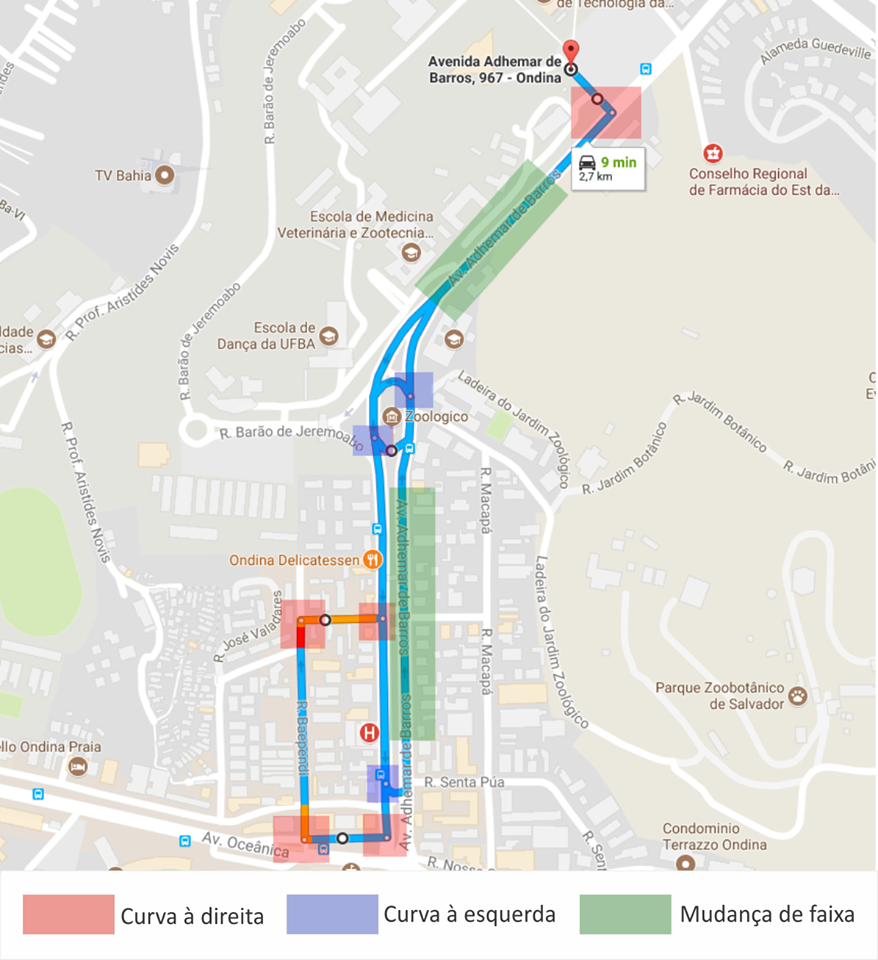
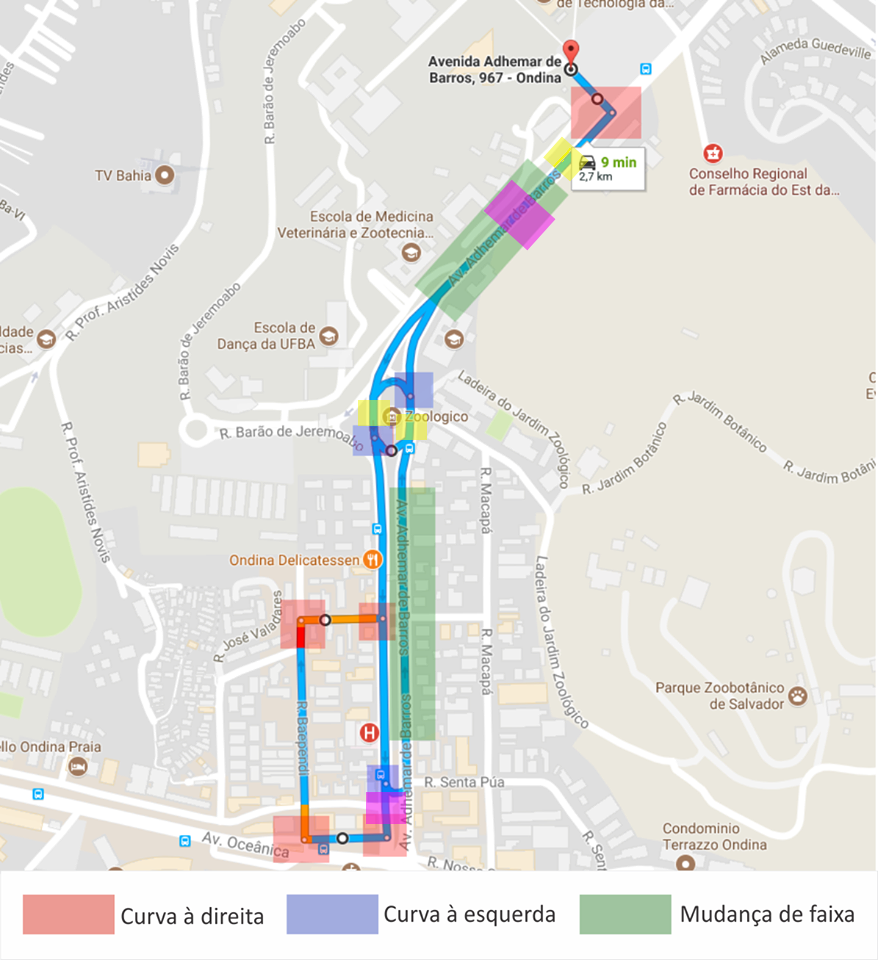
Adiciona textos e muda imagem

diff --git a/texts/proposta.tex b/texts/proposta.tex
@@ -1,18 +1,33 @@
 \xchapter{Proposta}{}
 \label{proposta}
 
-Neste trabalho é proposto um módulo de identificação de momentos oportunos e inoportunos para interrupção de
-motoristas, usando apenas sensores de smartphone. As seções deste capítulo estão estruturadas da seguinte forma:
-A seção \ref{sec-momentos-oportunos-inoportunos} discorre sobre os momentos oportunos e inoportunos escolhidos.
-A seção \ref{sec-arquitetura-solucao} apresenta a arquitetura da solução proposta. A seção \ref{sec-implementacao}
-apresenta detalhes da implementação de cada módulo que compõe a solução.
+Neste trabalho é proposto um sistema de notificação sensível ao contexto com identificação de momentos oportunos e
+inoportunos para interrupção de motoristas, usando apenas sensores de smartphone. As seções deste capítulo estão
+estruturadas da seguinte forma: A seção \ref{sec-momentos-oportunos-inoportunos} discorre sobre os momentos oportunos
+e inoportunos escolhidos. A seção \ref{sec-arquitetura-solucao} apresenta a arquitetura da solução proposta. A
+seção \ref{sec-implementacao} apresenta detalhes da implementação de cada módulo que compõe a solução.
 
 \section{Momentos oportunos e inoportunos escolhidos}
 \label{sec-momentos-oportunos-inoportunos}
 
-Para a escolha dos momentos oportunos e inoportunos foi feita uma prospecção dos artigos existentes nessa área.
-Nesta etapa dois artigos se mostraram promissores: O de \citeonline{kim2015sensors} e o de \citeonline{monk2004recovering}.
-Ambos trabalhos citam momentos oportunos e inoportunos para detecção da interruptibilidade de motoristas.
+Para a escolha dos momentos oportunos e inoportunos que a proposta iria identificar, foi feita uma prospecção dos artigos
+existentes nessa área. Nesta etapa dois artigos se mostraram promissores: O de \citeonline{kim2015sensors} e o
+de \citeonline{monk2004recovering}. Ambos trabalhos citam momentos oportunos e inoportunos para detecção da interruptibilidade
+de motoristas. Os momentos escolhidos estão exibidos na tabela \ref{tabela-momentos-oportunos-inoportunos}.
+
+\begin{table}[h]
+\centering
+\caption{Momentos oportunos e inoportunos escolhidos para identificação na proposta}
+\label{tabela-momentos-oportunos-inoportunos}
+\begin{tabular}{|c|c|}
+\hline
+\textbf{Momentos oportunos}                                                & \textbf{Momentos Inoportunos} \\ \hline
+Veículo parado                                                             & Curva                         \\ \hline
+\begin{tabular}[c]{@{}c@{}}Veículo com velocidade\\ constante\end{tabular} & Mudança de faixa              \\ \hline
+\end{tabular}
+\end{table}
+
+As próximas subseções explicam com detalhes o porquê das escolhas destes momentos.
 
 \subsection{Momentos oportunos}
 \label{subsec-momentos-oportunos}
@@ -92,7 +107,7 @@ O projeto foi desenvolvido no Android Studio, o ambiente de desenvolvimento inte
 codificação de aplicativos Android. A linguagem utilizada foi o Java, linguagem padrão para o desenvolvimento
 de aplicações Android.
 
-As próximas subseções apresentam detalhes sobre a implementação de cada módulo que compõe a solução.
+As próximas subseções apresentam detalhes sobre a implementação dos principais módulos que compõem o sistema.
 
 \subsection{Location Service}
 \label{location-service}
@@ -204,11 +219,3 @@ Os três estados do algoritmo são os seguintes:
 A solução proposta pelo presente trabalho utiliza o algoritmo de \citeonline{chen2015invisible} para detectar os momentos inoportunos de notificação: curva
 e mudança de faixa. O método \lstinline[basicstyle=\ttfamily\color{black}]|isAbleToNotify()| é o responsável por informar ao módulo \textit{Notification Handler}
 se o momento atual é oportuno ou não.
-
-\subsection{Service Handler}
-\label{service-handler}
-
-
-
-\subsection{Notification Handler}
-\label{notification-handler}

diff --git a/files/gyroscope.java b/files/gyroscope.java
@@ -15,9 +15,6 @@ import java.text.SimpleDateFormat;
 import java.util.LinkedList;
 import java.util.Queue;
 
-import lucas.com.meupossante.DAO.GyroscopeDataDAO;
-import lucas.com.meupossante.VO.GyroscopeDataVO;
-
 import static java.lang.Math.abs;
 import static java.lang.System.currentTimeMillis;
 
@@ -25,7 +22,7 @@ import static java.lang.System.currentTimeMillis;
  * Created by Lucas on 31/07/2017.
  */
 
-public class Gyroscope extends IntentService implements SensorEventListener {
+public class GyroscopeService extends IntentService implements SensorEventListener {
     private SensorManager mSensorManager;
     private Sensor mSensor;
     private Boolean founddeltaH = false;
@@ -44,8 +41,8 @@ public class Gyroscope extends IntentService implements SensorEventListener {
     private float gyro_timestamp = 0;
     public Queue<Float> gyroQueue;
 
-    public Gyroscope() {
-        super("Gyroscope");
+    public GyroscopeService() {
+        super("GyroscopeService");
     }
 
     public static boolean isAbleToNotify() {
@@ -60,7 +57,6 @@ public class Gyroscope extends IntentService implements SensorEventListener {
         mSensorManager = (SensorManager) getSystemService(Context.SENSOR_SERVICE);
         mSensor = mSensorManager.getDefaultSensor(Sensor.TYPE_GYROSCOPE);
 
-        gyroDAO = new GyroscopeDataDAO(this);
         gyroQueue = new LinkedList<>();
     }
 
@@ -96,7 +92,7 @@ public class Gyroscope extends IntentService implements SensorEventListener {
 
         gyroValue = average(gyroQueue);
 
-        Log.i(TAG, "Valor do giroscópio: " + String.valueOf(gyroValue));
+        Log.i(TAG, "Valor do giroscopio: " + String.valueOf(gyroValue));
         if (gyroValue > deltah) {
             founddeltaH = true;
         }

diff --git a/texts/revisao_literatura.tex b/texts/revisao_literatura.tex
@@ -1,8 +1,11 @@
 \xchapter{Revisão da Literatura}{}
 \label{revisao-lit}
 Este capítulo aborda os principais fundamentos teóricos envolvidos na notificação oportuna de motoristas,
-tema central deste trabalho, e traz uma revisão dos trabalhos relacionados com o tema. São apresentados
-conceitos sobre interrupção, notificação e contexto. Ao final são apresentados alguns trabalhos correlatos.
+tema central deste trabalho, e traz uma revisão dos trabalhos relacionados com o tema. As seções deste capítulo
+estão estruturadas da seguinte forma: A seção \ref{interrupcao} apresenta os principais conceitos sobre interrupção
+e seus efeitos sobre os motoristas. A seção \ref{notificacao} fala sobre as notificações e seu efeito interruptivo.
+A seção \ref{contexto} discorre sobre contexto. Por fim, a seção \ref{trabalhos-relacionados} apresenta os trabalhos
+correlatos com o presente trabalho.
 
 \section{Interrupção}
 \label{interrupcao}
